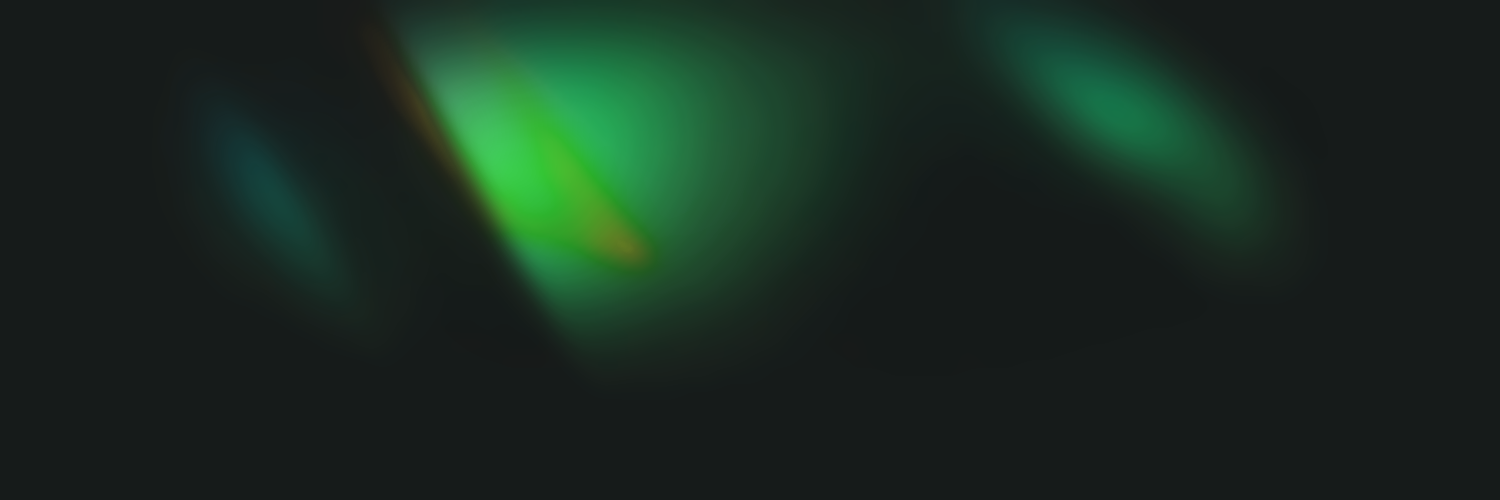
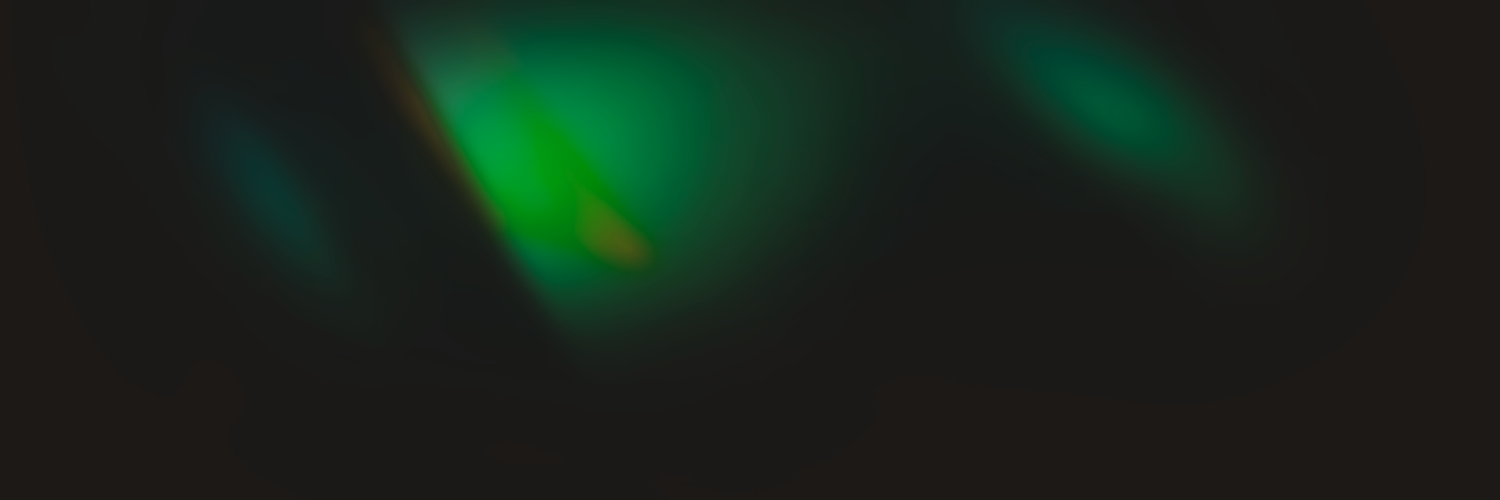
add background

Changed region(s): [[0.276, 0.06, 0.4907, 0.6], [0.7053, 0.15, 0.828, 0.36]]

diff --git a/app/layout.tsx b/app/layout.tsx
@@ -1,6 +1,8 @@
 import type { Metadata } from "next";
 import { Exo_2 } from "next/font/google";
+
 import "@/styles/globals.css";
+import { BackgroundFilter } from "@/components";
 
 export const metadata: Metadata = {
   title: "Marco De Carlo",
@@ -16,9 +18,13 @@ children,
 }>) {
   return (
     <html lang="it">
-      <body className={`min-h-screen font-sans bg-gray-900 selection:text-white selection:bg-green-950 ${exo.variable}`}>
-      <div className="layout-sm relative z-10 grid gap-y-8 px-4 pt-12 text-green-200/90 xl:layout-xl xl:gap-x-9 xl:px-0 [&>*]:col-start-2 xl:[&>*]:col-start-3">
-          {children}
+      <body className={`overscroll-y-none font-sans bg-stone-900 selection:text-white selection:bg-green-950 ${exo.variable}`}>
+        <BackgroundFilter/>
+        <div className="layout-sm relative z-10 grid gap-y-8 px-4 pt-12 text-green-200/90 xl:layout-xl xl:gap-x-9 xl:px-0 [&>*]:col-start-2 xl:[&>*]:col-start-3">
+            {children}
+        </div>
+        <div className="pointer-events-none absolute inset-0 overflow-hidden">
+          <div className="h-full bg-[url('https://res.cloudinary.com/graziadecarlo/image/upload/v1726317965/bg_gradient.png')] bg-top bg-no-repeat opacity-[0.8]" ></div>
         </div>
       </body>
     </html>

diff --git a/components/svg/BackgroundFilter.tsx b/components/svg/BackgroundFilter.tsx
@@ -1,0 +1,19 @@
+export default function BackgroundFilter(){
+    return(
+        <svg
+          className="pointer-events-none fixed isolate z-50 opacity-60 mix-blend-soft-light"
+          width="100%"
+          height="100%"
+        >
+          <filter id="noise">
+            <feTurbulence
+              type="fractalNoise"
+              baseFrequency="0.80"
+              numOctaves="4"
+              stitchTiles="stitch"
+            />
+          </filter>
+          <rect width="100%" height="100%" filter="url(#noise)" />
+        </svg>
+    )
+}

diff --git a/components/index.ts b/components/index.ts
@@ -1,0 +1,1 @@
+export { default as BackgroundFilter } from "./svg/BackgroundFilter";
